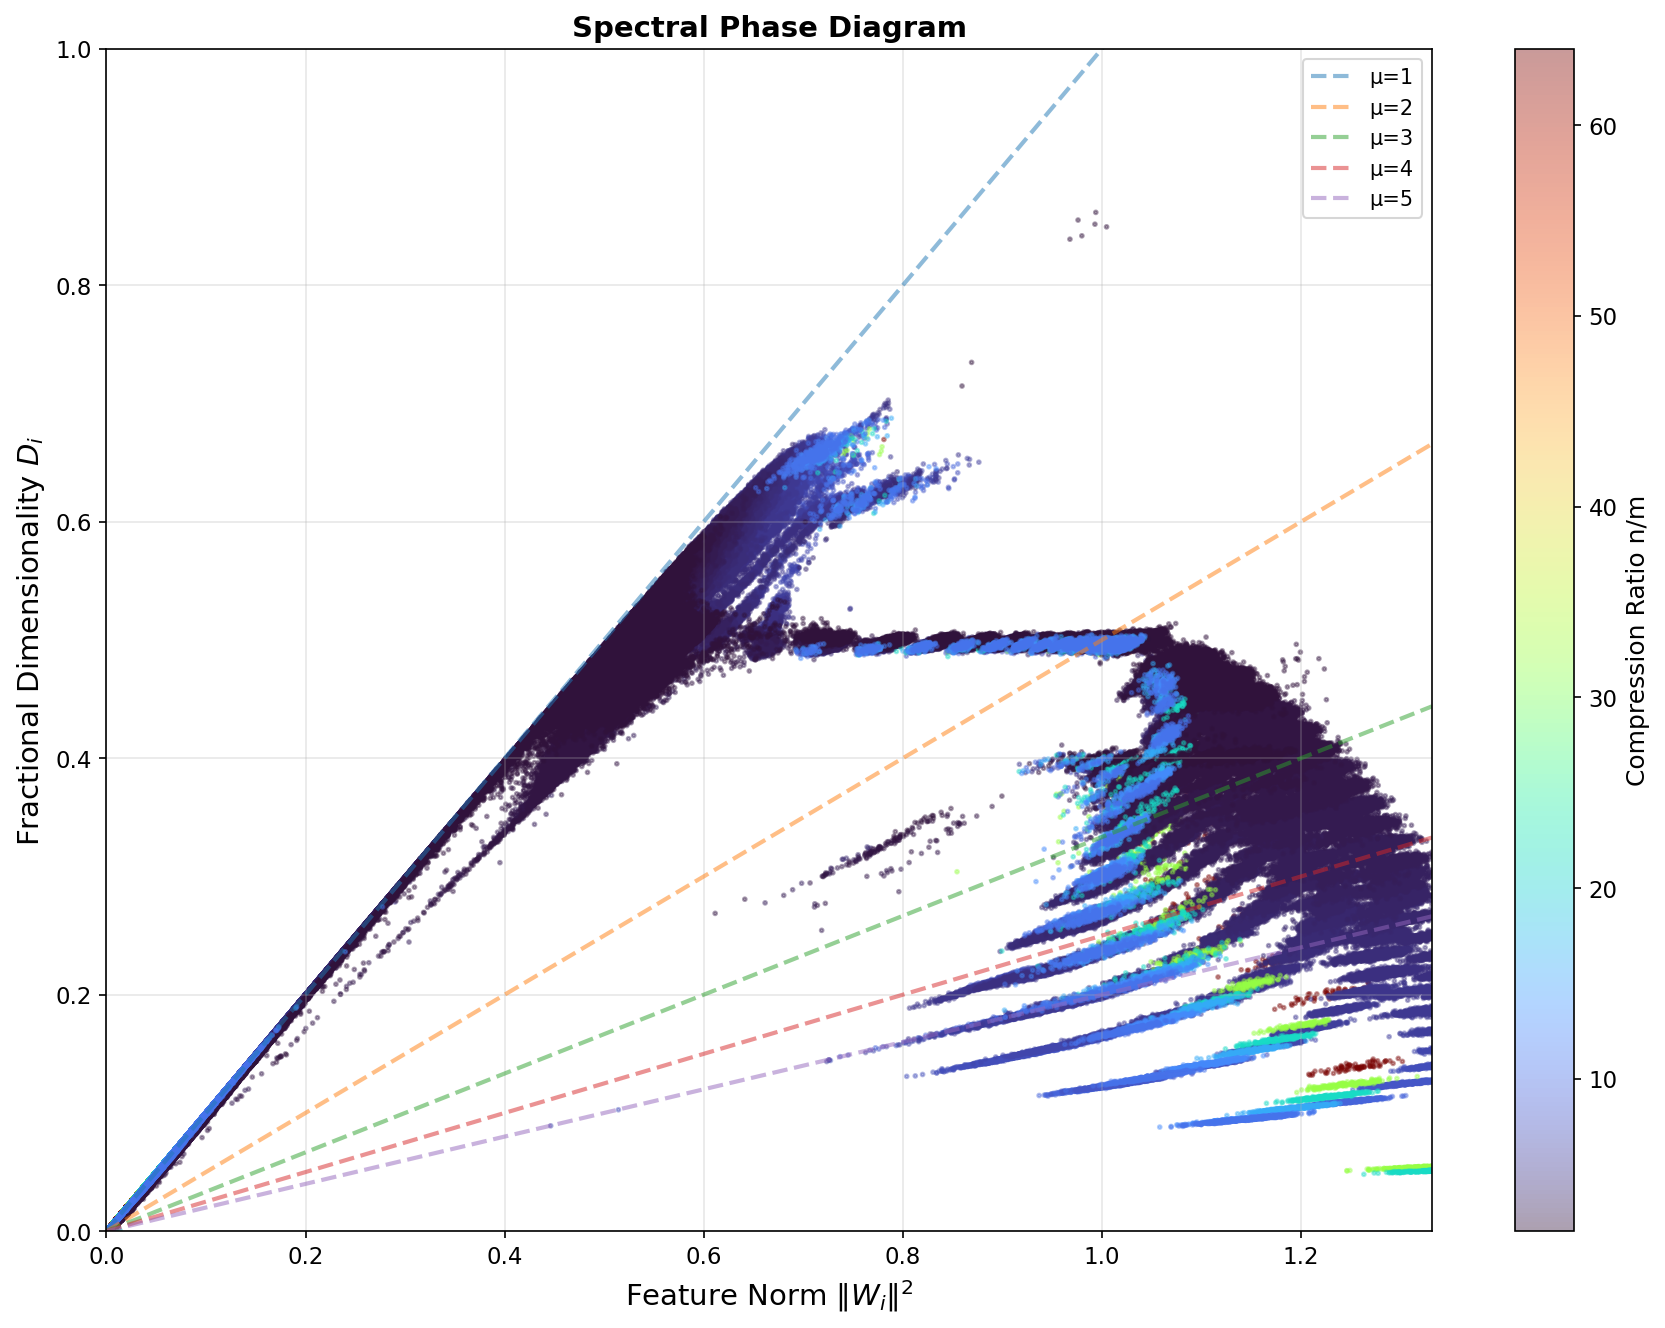
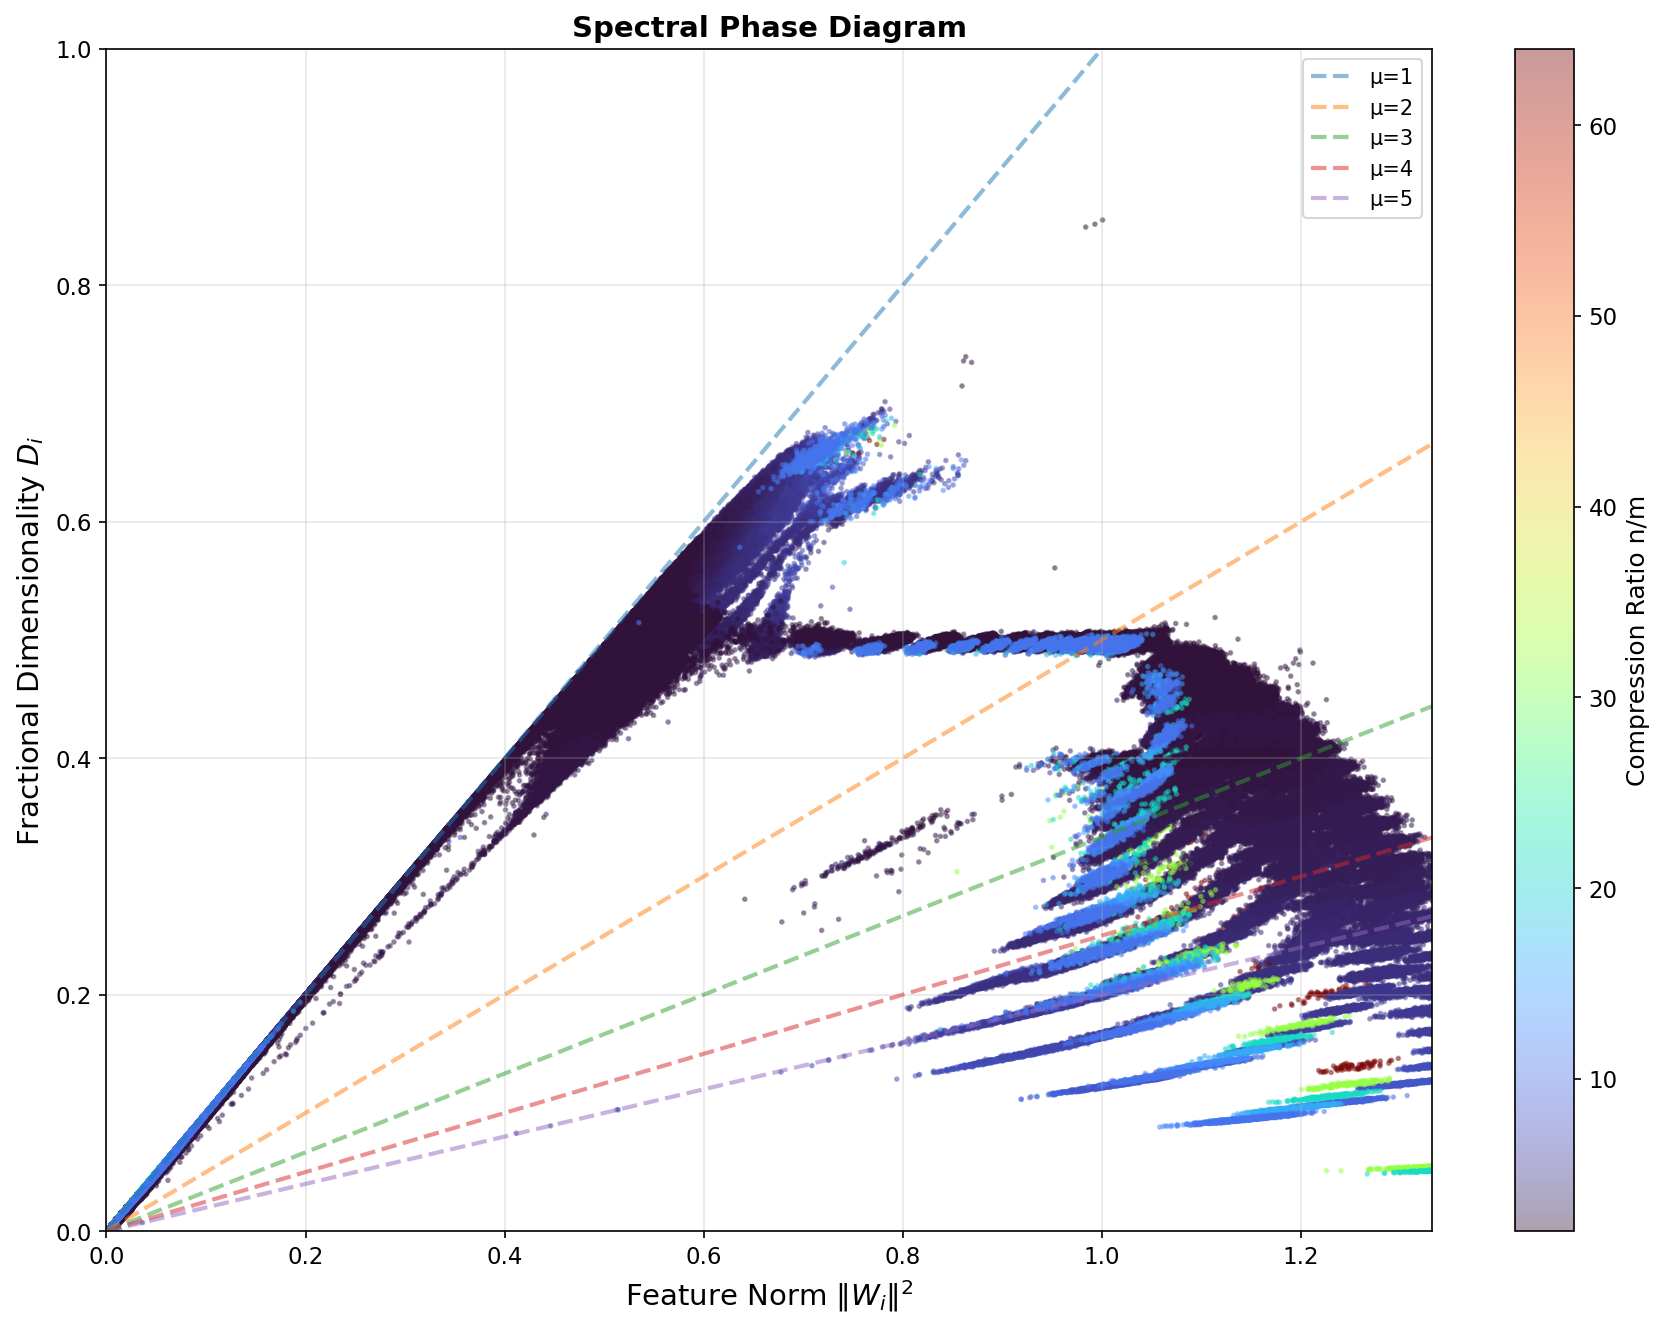
third pass

diff --git a/public/dynamics/analysis/phase analysis/spectral_analysis.py b/public/dynamics/analysis/phase analysis/spectral_analysis.py
@@ -206,8 +206,8 @@ def plot_conservation_law(all_data):
     n_sparsities = len(unique_sparsities)
 
     # Create colormap: S=0 muted purple -> blue -> teal -> muted yellow-green (S=1)
-    # Subdued color palette
-    colors_list = ['#7B6D8E', '#6B7FA3', '#7A9BA8', '#92BABC', '#A8C9A7', '#C4D4A0', '#D4DBA0']
+    # Subdued but brighter color palette
+    colors_list = ['#9B7BB5', '#7B9FCD', '#8FCAC8', '#A8DCD8', '#C5E8A5', '#E0EDA0', '#F0F5A0']
     sparsity_cmap = LinearSegmentedColormap.from_list('sparsity_gradient', colors_list, N=256)
 
     # Create figure - enlarged single plot
@@ -249,7 +249,7 @@ def plot_conservation_law(all_data):
     sm = plt.cm.ScalarMappable(cmap=sparsity_cmap, norm=plt.Normalize(vmin=0, vmax=1))
     sm.set_array([])
     cbar = plt.colorbar(sm, ax=ax, pad=0.02)
-    cbar.set_label('Sparsity $S$', fontsize=20)
+    cbar.set_label('Sparsity $S$', fontsize=28)
     cbar.ax.tick_params(labelsize=16)
 
     # Create legend with statistics
@@ -262,8 +262,9 @@ def plot_conservation_law(all_data):
     ax.text(0.02, 0.98, stats_text, transform=ax.transAxes, fontsize=26,
             verticalalignment='top', bbox=props, family='monospace')
 
-    # Legend for lines
-    ax.legend(loc='upper right', fontsize=20, framealpha=0.9)
+    # Legend for lines - positioned below the statistics box
+    ax.legend(loc='upper left', fontsize=20, framealpha=0.9,
+              bbox_to_anchor=(0.02, 0.72))
 
     ax.tick_params(axis='both', which='major', labelsize=18)
     ax.grid(True, alpha=0.3, linestyle='-', linewidth=0.5)
